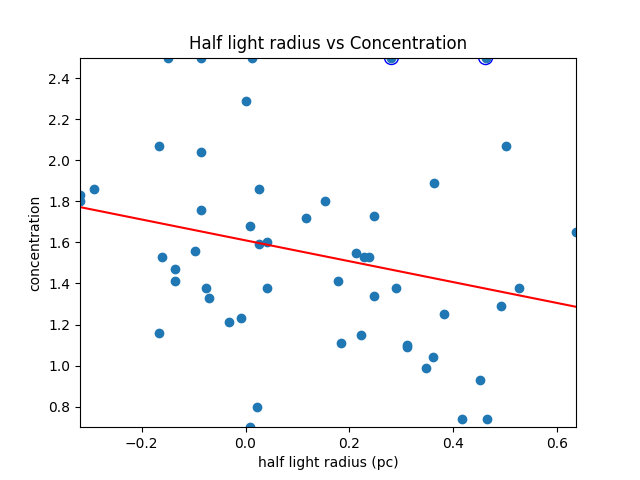
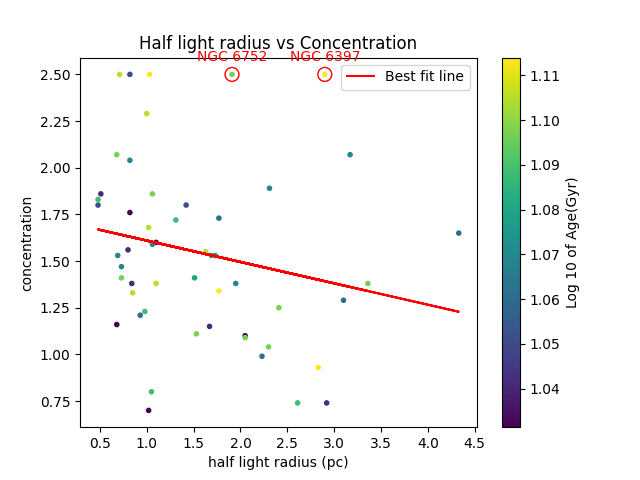
finished analysis (might be subject to slight fixes if code doesn't work)

diff --git a/src/Harris_cat_age_metallicity.py b/src/Harris_cat_age_metallicity.py
@@ -13,56 +13,71 @@ def add_NGC(s):
 vbd["ID"]=vbd["ID"].apply(add_NGC)# Adding "NGC " to the front of each value in the "ID" column to match the Harris catalog format
 harris_cat_merged=pd.merge(harris_cat,vbd,on='ID',how='inner')# Merging the Harris catalog with VandenBerg catalog into 1 dataframe by combining all matching columns into 1 set.
 #Plotting the radial velocity from Harris catalog vs the metallicity from merged catalog
-#%% 
-plt.errorbar(harris_cat_merged["L"],harris_cat_merged["v_LSR"],
-#Plotting Error in v_LSR
-yerr=harris_cat_merged["v_r_e"], fmt='o', ecolor='black', elinewidth=1.5, capsize=1, label='Harris catalog')
+#%%
+galactic_longitude=harris_cat_merged["L"]
+line_of_sight_velocity=harris_cat_merged["v_LSR"]
+#letting the sin function be defined here for curve fitting since it best fits rotation curve trend
+def sine_function(galactic_longitude, amplitude, frequency, phase, offset):
+    longitude_radians = np.radians(galactic_longitude)
+    return amplitude * np.sin(longitude_radians * frequency + phase) + offset # Sine function definition
+#estimate initial parameters for curve fitting
+initial_amplitude = (np.max(line_of_sight_velocity) - np.min(line_of_sight_velocity)) / 2
+initial_frequency = 2 # Assuming 2 full sine wave cycles over 360 degrees
+initial_phase = 0
+initial_offset = np.mean(line_of_sight_velocity)
+initial_parameters = [initial_amplitude, initial_frequency, initial_phase, initial_offset]
+#curve fitting tool from scipy
+from scipy.optimize import curve_fit
+popt, pcov = curve_fit(sine_function, galactic_longitude, line_of_sight_velocity, p0=initial_parameters)
+# Extracting the fitted parameters
+fitted_amplitude, fitted_frequency, fitted_phase, fitted_offset = popt
+
+#Trying to identify outliers based on our data based on residuals
+residuals = line_of_sight_velocity - sine_function(galactic_longitude, *popt)
+std_dev = np.std(residuals)
+max_deviation = 2 * std_dev
+outliers = np.abs(residuals) > max_deviation
+
+# creating fitted values for plotting the sine curve
+longitudes=np.linspace(0, 360, 500)
+v_fit = sine_function(longitudes, *popt)
+# Plot data and fitted curve
+plt.plot(galactic_longitude, line_of_sight_velocity, 'o', label='Data')
+plt.plot(longitudes, v_fit, 'r-', label='Fitted rotation curve')
+if np.any(outliers):
+    for i in np.where(outliers)[0]:
+        plt.scatter(galactic_longitude[i], line_of_sight_velocity[i], facecolors='none', edgecolors='r', s=100)
+        plt.annotate(harris_cat_merged["ID"].iloc[i], (galactic_longitude.iloc[i], line_of_sight_velocity.iloc[i]), textcoords="offset points", xytext=(0,10), ha='center', color='red')
 plt.xlabel("Galactic Longitude (degrees)")
 plt.ylabel("Line of sight velocity(km/s)")
-plt.title('Galactic Longitude vs Line of sight velocity')
-plt.savefig("results/Longitude_vs_velocity.png")
-plt.grid(True)
+plt.title('Galactic Longitude vs Line of sight velocity with a curve fit')
+plt.legend()
+plt.savefig("results/Longitude_vs_velocity_sine_fit.png")
 plt.show()
 
 #%%
-
+m,b=np.polyfit(harris_cat_merged["r_h"],harris_cat_merged["c"],1)
+residuals_concentration=harris_cat_merged["c"]-(m*harris_cat_merged["r_h"]+b)
+std_dev_concentration=np.std(residuals_concentration)
+max_deviation_concentration=2*std_dev_concentration
+outliers_concentration=np.abs(residuals_concentration)>max_deviation_concentration
 
 #Plotting the half light radius from Harris catalog vs the concentration from merged catalog
-plt.scatter(np.log10(harris_cat_merged["r_h"]),harris_cat_merged["c"],
+plt.scatter(harris_cat_merged["r_h"],harris_cat_merged["c"],
 ## making a colour bar based on age
 c=np.log10(harris_cat_merged["Age"]),marker='.')
 cbar=plt.colorbar()
+plt.plot(harris_cat_merged["r_h"],m*harris_cat_merged["r_h"]+b,color='red',label='Best fit line')
+# highlighting any outliers found on our fitted data 
+if np.any(outliers_concentration):
+    for i in np.where(outliers_concentration)[0]:
+        plt.scatter(harris_cat_merged["r_h"].iloc[i], harris_cat_merged["c"].iloc[i], facecolors='none', edgecolors='r', s=100)
+        plt.annotate(harris_cat_merged["ID"].iloc[i], (harris_cat_merged["r_h"].iloc[i], harris_cat_merged["c"].iloc[i]), textcoords="offset points", xytext=(0,10), ha='center', color='red')
+plt.title('Half light radius vs Concentration')
 plt.xlabel('half light radius (pc)')
 plt.ylabel('concentration')
-plt.title('Half light radius vs Concentration')
-plt.savefig("results/half_light_radius_vs_concentration.png")
+plt.legend()
 cbar.set_label('Log 10 of Age(Gyr)')
+plt.savefig("results/half_light_radius_vs_concentration.png")
 plt.show()
-
 # %%
-#Just testing linear regression and outlier detection
-slope, intercept,r ,p, std_err = stats.linregress(np.log10(harris_cat_merged["r_h"]),harris_cat_merged["c"])
-c_fit = slope * np.log10(harris_cat_merged["r_h"]) + intercept
-residuals = harris_cat_merged["c"] - c_fit
-z= stats.zscore(residuals)
-outliers = np.where(np.abs(z) > 2)[0] # Identifying outliers with z-score greater than 2
-
-#2D KDE plot
-xy=np.vstack([np.log10(harris_cat_merged["r_h"]),harris_cat_merged["c"]])
-kde=stats.gaussian_kde(xy)
-xr=np.linspace(np.log10(harris_cat_merged["r_h"]).min(),np.log10(harris_cat_merged["r_h"]).max(),100)
-yr=np.linspace(harris_cat_merged["c"].min(),harris_cat_merged["c"].max(),100)
-X,Y=np.meshgrid(xr,yr)
-Z=kde(np.vstack([X.ravel(),Y.ravel()])).reshape(X.shape)
-
-#Plotting the half light radius from Harris catalog vs the concentration from merged catalog
-plt.contourf(X,Y,Z,levels=5,colors='white')
-plt.scatter(np.log10(harris_cat_merged["r_h"]),harris_cat_merged["c"])
-plt.plot(xr, slope * xr + intercept, 'r', label='Linear fit')
-plt.scatter(np.log10(harris_cat_merged["r_h"][outliers]),harris_cat_merged["c"][outliers],facecolors='none',edgecolors='b',s=100,label='Outliers')
-plt.xlabel(' log10 of half light radius (pc)')
-plt.ylabel('concentration')
-plt.title('Half light radius vs Concentration')
-plt.savefig("results/half_light_radius_vs_concentration.png")
-cbar.set_label('Log 10 of Age(Gyr)')
-plt.show()
